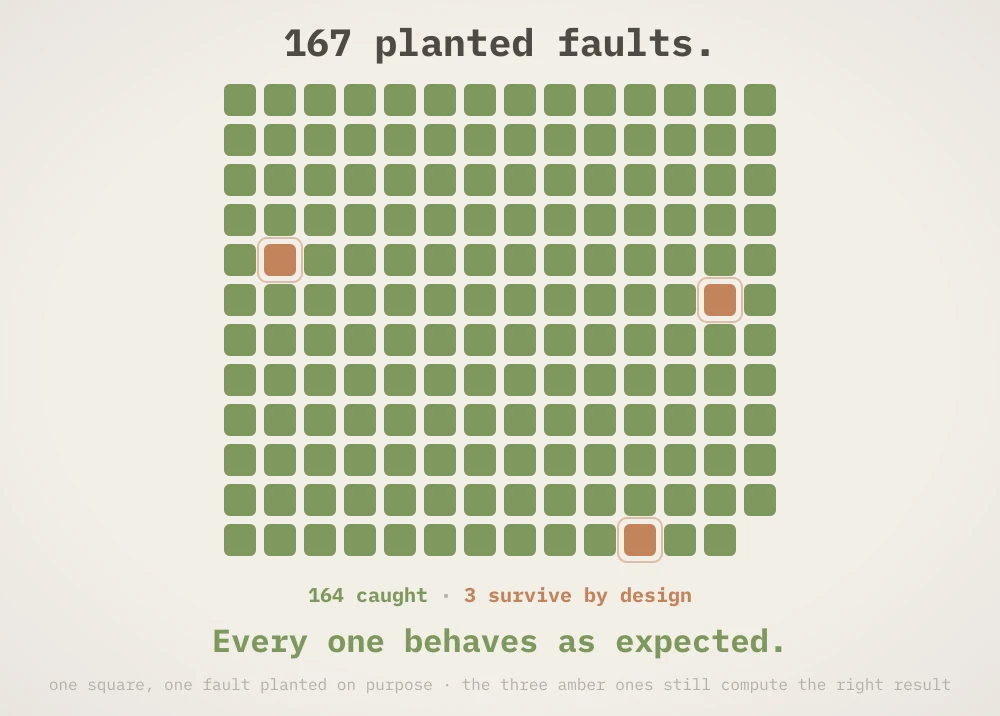
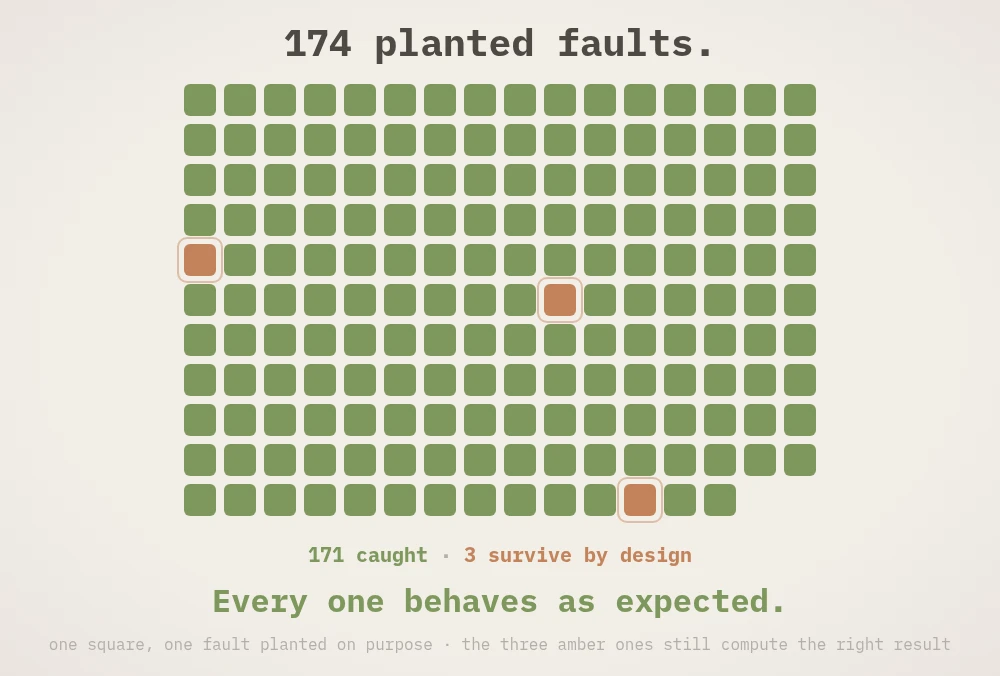
README: 174 planted faults, 171 caught and 3 by design, the chart redrawn

diff --git a/README.md b/README.md
@@ -7,7 +7,7 @@
   <a href="LICENSE"><img src="https://img.shields.io/badge/license-MIT-8b83b5?style=flat-square&labelColor=4d4a44" alt="MIT license"></a>
   <a href="https://bend-lang.com"><img src="https://img.shields.io/badge/Bend-2.0.40-8b83b5?style=flat-square&labelColor=4d4a44" alt="Bend 2.0.40"></a>
   <img src="https://img.shields.io/badge/laws%20proved-35-7e9a5e?style=flat-square&labelColor=4d4a44" alt="35 laws proved">
-  <img src="https://img.shields.io/badge/planted%20bugs-167%2F167%20as%20expected-7e9a5e?style=flat-square&labelColor=4d4a44" alt="167 planted bugs, 167 as expected">
+  <img src="https://img.shields.io/badge/planted%20bugs-174%2F174%20as%20expected-7e9a5e?style=flat-square&labelColor=4d4a44" alt="174 planted bugs, 174 as expected">
 </p>
 
 **BendTorch** trains neural networks in [Bend 2](https://bend-lang.com) with general pieces: layers with typed forward
@@ -84,13 +84,13 @@ them again with Bend's kernel proved in Lean, with no `@unsafe`, no `?TODO` and 
 explains each proof. The linear laws are about an exact model where numbers are `Nat`; the F32 code computes the same
 formulas and is tested, not proved, to do so.
 
-167 deliberate faults planted in the code and the specification (`scripts/mutate.py`) each behave as expected: 164
+174 deliberate faults planted in the code and the specification (`scripts/mutate.py`) each behave as expected: 171
 are caught by a law or a test, and three survive by design, because they still compute the right result. One is right
 by accident (a one-cell array wraps every index to 0), and a bounds check catches the same fault; one only changes a
 GPU block size, and any block size that divides a row gives the same sum, bit for bit: the law `block_sum` proves it;
 the third lets packed AdamW write past n into cells that hold zeros and stay zero.
 
-<p align="center"><img src="docs/media/mutants.webp" alt="167 planted faults: 164 caught, 3 survive by design" width="80%"></p>
+<p align="center"><img src="docs/media/mutants.webp" alt="174 planted faults: 171 caught, 3 survive by design" width="80%"></p>
 
 ## 03 · It trains, and it computes what PyTorch computes
 
@@ -211,7 +211,7 @@ Linux x86_64, clang, Python 3.14, `curl`. The Python venv with PyTorch takes abo
 make setup   # Bend 2.0.40 (SHA256-checked), Lean 4.34.0, the Python venv of reference/; no sudo
 make data    # MNIST and Tiny Shakespeare into data/, the twins' initial weights and batches (seed 0)
 make check   # the laws (--verdict), the rejected programs, every layer, the MLP, MNIST, the Llama and a SmolLM2-sized block against PyTorch (~2 min)
-make mutate  # the 167 deliberate faults
+make mutate  # the 174 deliberate faults
 make bench   # BendTorch against PyTorch on MNIST, the tiny Llama and the block (~6 min)
 make check-js  # the same tests on the JavaScript build, run with Bun; the outputs must be the native build's bits
 ```
